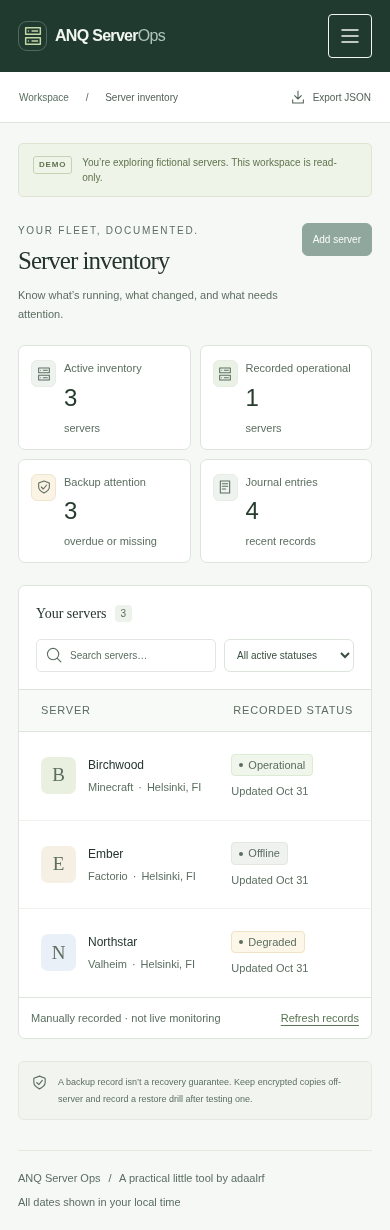
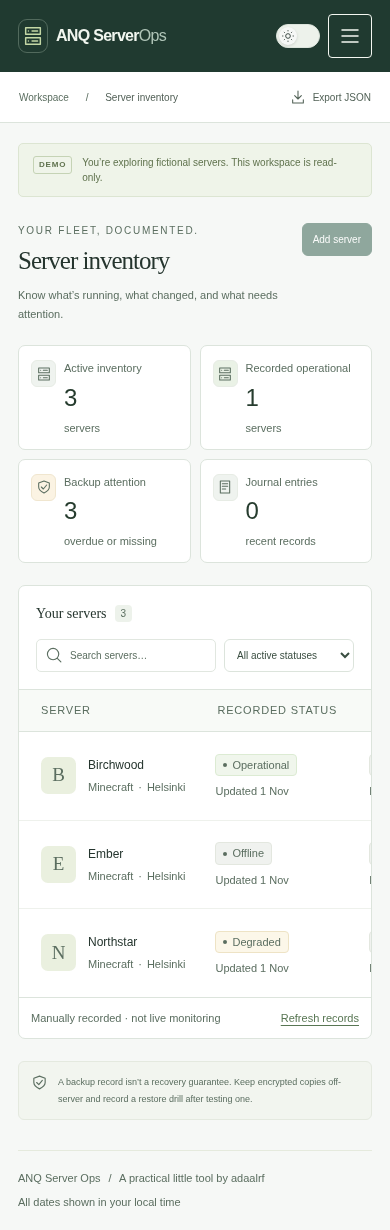
docs(server-ops): refresh screenshots and isolate test captures

diff --git a/tests/browser.ts b/tests/browser.ts
@@ -226,8 +226,8 @@ try {
     })),
     [],
   );
-  await mkdir('docs/screenshots', { recursive: true });
-  await page.screenshot({ path: 'docs/screenshots/inventory-desktop.png', fullPage: true });
+  await mkdir('test-results/screenshots', { recursive: true });
+  await page.screenshot({ path: 'test-results/screenshots/inventory-desktop.png', fullPage: true });
   for (const width of [390, 768]) {
     await page.setViewportSize({ width, height: 844 });
     assert.equal(
@@ -237,7 +237,7 @@ try {
     );
   }
   await page.setViewportSize({ width: 390, height: 844 });
-  await page.screenshot({ path: 'docs/screenshots/inventory-mobile.png', fullPage: true });
+  await page.screenshot({ path: 'test-results/screenshots/inventory-mobile.png', fullPage: true });
   await page.getByRole('button', { name: 'View Birchwood', exact: true }).click();
   await expect(page.getByRole('heading', { name: 'Birchwood', exact: true })).toBeVisible();
   await workspaceLink(page, 'Activity journal');
